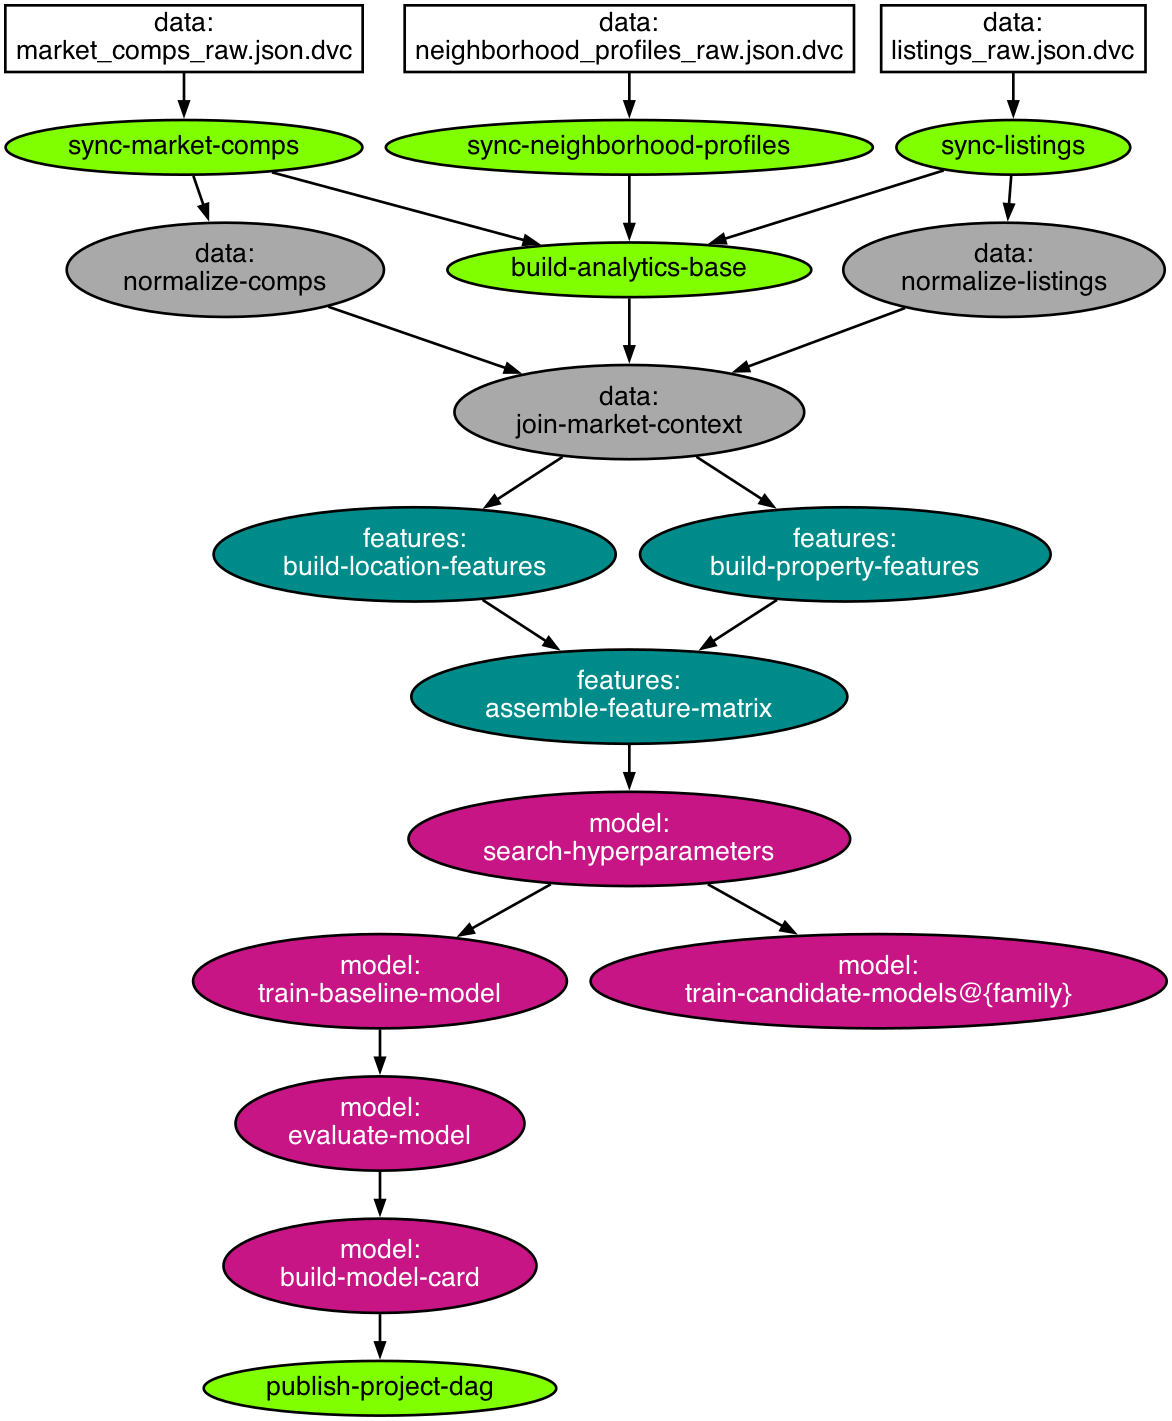
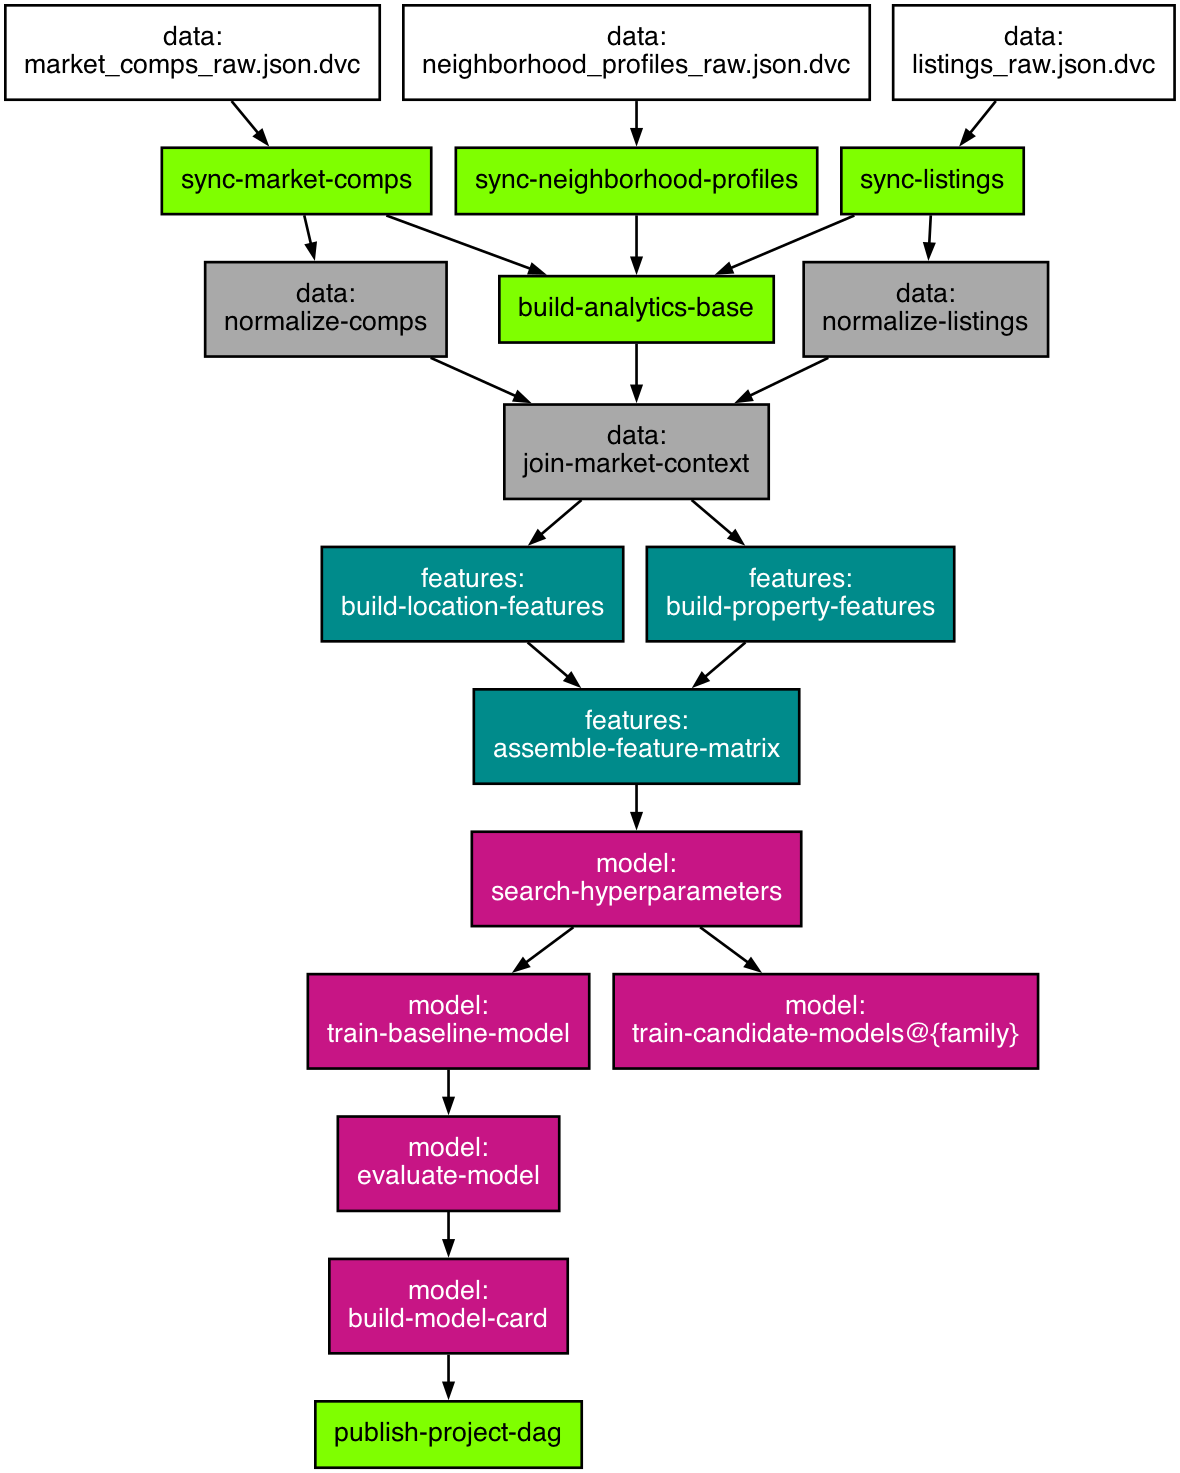
Use boxes for all stages

Changed region(s): [[0.0, 0.0, 1.0, 1.0]]

diff --git a/src/dvc_dag/draw.py b/src/dvc_dag/draw.py
@@ -21,13 +21,16 @@ if TYPE_CHECKING:
 
     from pydot.classes import EdgeEndpoint
 
+NodeOptionValue = str | int | float
 
 ROOT_CATEGORY = "root"
 EDGE_NAME_SEPARATOR = "***"
-DEFAULT_NODE_OPTIONS: dict[str, str | int] = {
+DEFAULT_NODE_OPTIONS: dict[str, NodeOptionValue] = {
     "fontsize": 20,
     "penwidth": "2",
     "fontname": "Cambria",
+    "shape": "box",
+    "margin": 0.2,
 }
 DEFAULT_EDGE_OPTIONS: dict[str, str] = {
     "penwidth": "2",
@@ -95,7 +98,7 @@ def normalize_endpoint(endpoint: EdgeEndpoint) -> str:
     raise TypeError(msg)
 
 
-def make_node(name: str, options: Mapping[str, str | int]) -> Node:
+def make_node(name: str, options: Mapping[str, NodeOptionValue]) -> Node:
     """Return a pydot node with the provided attributes."""
     node = Node(name)
     node.obj_dict["attributes"] = dict(options)
@@ -211,19 +214,18 @@ def format_nodes(
     path_text_to_delete: Sequence[str],
     stage_collapses: Mapping[str, str],
     colors_random_seed: int,
-) -> dict[str, dict[str, str | int]]:
+) -> dict[str, dict[str, NodeOptionValue]]:
     """Format and filter the nodes."""
     colors = Colors(random_seed=colors_random_seed)
 
     all_nodes = get_all_nodes(graph_old)
-    nodes_to_add: dict[str, dict[str, str | int]] = {}
+    nodes_to_add: dict[str, dict[str, NodeOptionValue]] = {}
 
     for node in all_nodes:
         name = process_node_name(node, stage_collapses=stage_collapses)
         options = deepcopy(DEFAULT_NODE_OPTIONS)
 
         if name.endswith('.dvc"'):  # is file
-            options["shape"] = "box"
             options["label"] = format_displayed_name(
                 name,
                 path_text_to_delete=path_text_to_delete,
